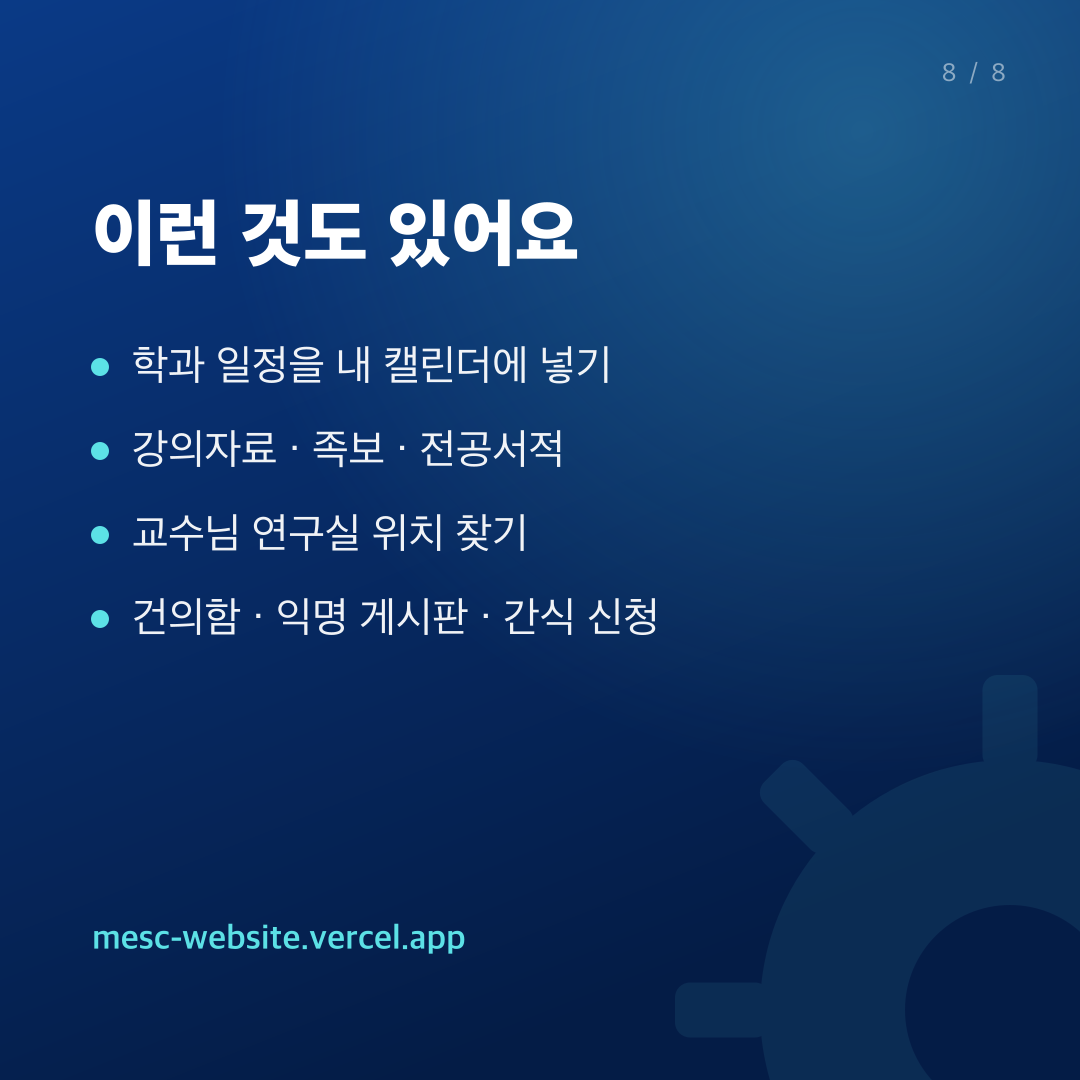
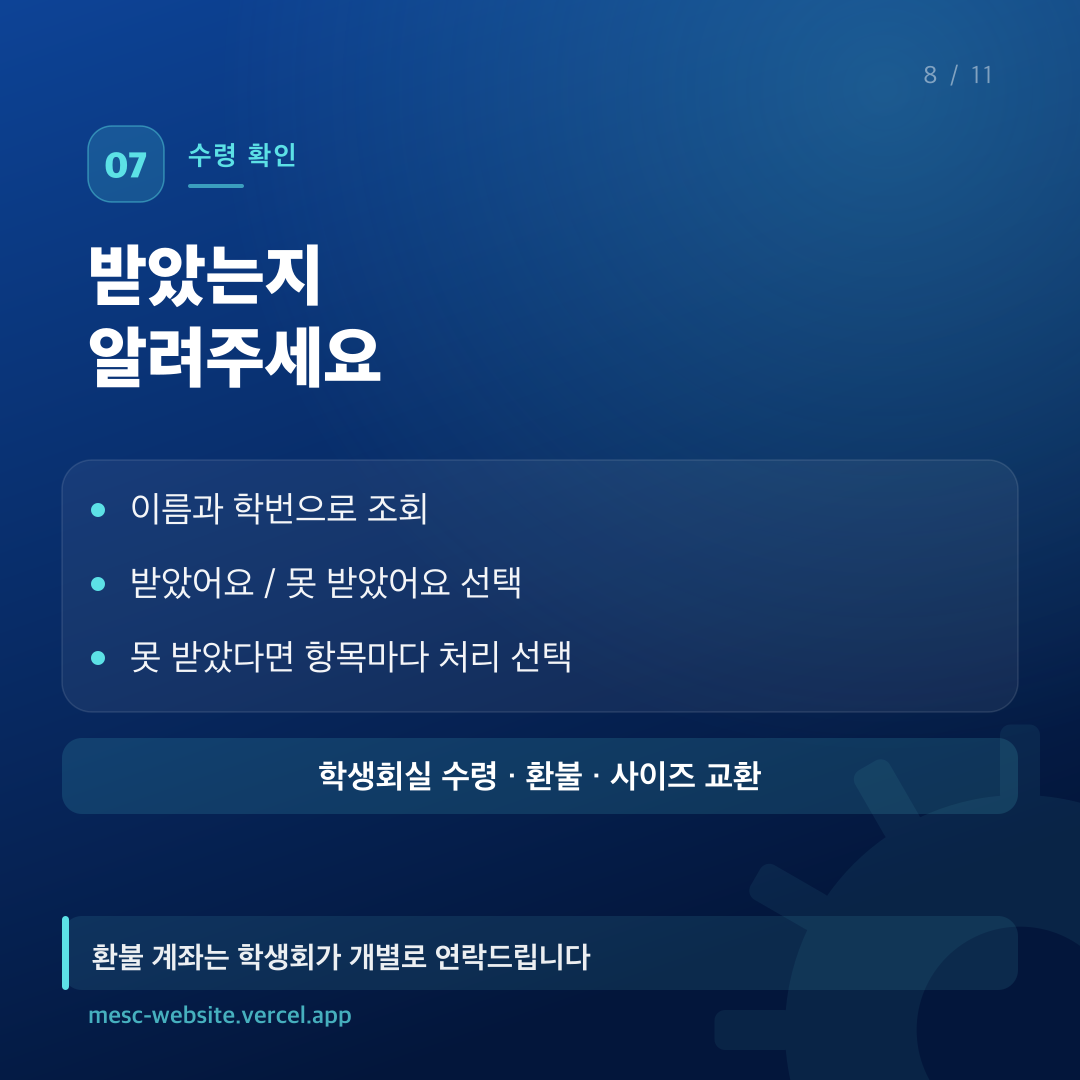
docs(cardnews): 카드뉴스 11장 재제작 + 프리뷰 배포 중단 (#20)
* docs(cardnews): 새 매뉴얼에 맞춰 11장으로 다시 제작

8장 요약본을 버리고 확장된 학생용 사용법을 따라 11장으로 재구성.
레이아웃을 부품화(번호 배지, 반투명 패널, 단계·점 목록, 강조 띠)하고
강조 띠 위치는 패널 높이에서 계산해 항목 수가 달라져도 겹치지 않게 함.

Claude-Session: https://claude.ai/code/session_011GQUemM1zTe4fHAKx2VFFn

* chore(vercel): 프리뷰 배포 중단 — 프로덕션 빌드만 수행

프리뷰 스코프에 DB 변수가 없어 실데이터를 볼 수 없었고 실패 알림만
쌓였다. Ignored Build Step 은 종료코드 0 이면 빌드를 건너뛴다
(프리뷰 0, 프로덕션 1). 되살리려면 이 한 줄만 지우면 된다.

Claude-Session: https://claude.ai/code/session_011GQUemM1zTe4fHAKx2VFFn

---------

diff --git a/AGENTS.md b/AGENTS.md
@@ -41,3 +41,5 @@ This version has breaking changes — APIs, conventions, and file structure may 
 - 2026-09-08 사용 매뉴얼 확장·화면 문구 정정 — 매뉴얼을 요약본에서 레퍼런스로 재작성(`docs/manual/`): 학생용 12장(메뉴 지도·공지·알림·이벤트 전 과정·과비·캘린더·강의·평면도·커뮤니티·개인정보·FAQ), 관리자 12장(대시보드 4카드 정의·캠페인 4탭·공지 첨부와 알림 3경로·행사/드라이브·모더레이션·팝업·학과 정보·사이트 설정·**되돌릴 수 없는 작업 목록**·개인정보·문제 해결·인수인계 체크리스트), `부록A-규칙과-한도.md`(업로드 한도·보유기간·레이트리밋·알림 조건·캐시 지연·주문 상태 기계·환경변수), `부록B-오류-문구-사전.md`(화면 문구 → 원인 → 조치), `README.md` 색인. 조사는 공개/관리자/정책 3개 에이전트 병렬. **코드 정정 3건**: `fill()` 이 `{name}` 을 치환하지 않아 재고 부족 안내가 학생 화면에 "{name} 옵션의 남은 수량이…" 로 그대로 노출되던 것, 행사 "재동기화" 안내가 삭제도 반영된다고 잘못 안내하던 것(실제로는 추가만), 마스코트·캠페인 이미지 안내의 "5MB 이하"(실제 `/api/upload` 한도는 4MB)
 - 2026-09-08 매뉴얼 PDF — `scripts/make-manual-pdf.mjs` 가 `docs/manual/*.md` 를 인쇄용으로 조판해 `docs/manual/pdf/` 에 찍는다(학생용 27쪽 / 관리자+부록A·B 45쪽). 의존성 없이 마크다운을 직접 HTML 로 바꾸고(표·인용·목록·이미지·코드) 헤드리스 크롬으로 출력. **크롬은 `--user-data-dir` 로 별도 프로필을 주지 않으면 사용자의 크롬과 충돌해 응답 없이 멈춘다**(이전 라운드 스크린샷 시도가 두 번 멈춘 원인). 쪽 번호가 있는 꼬리말은 CLI `--print-to-pdf` 로는 못 넣어 DevTools 프로토콜(`Page.printToPDF`, Node 내장 WebSocket)로 붙였고, **연결은 반드시 `/json/list` 의 `type:"page"` 대상으로** 해야 한다(브라우저 수준 소켓에는 Page 도메인이 없어 'Page.enable' wasn't found). 표지 h1 은 본문 h1 규칙(남색 글자·페이지 넘김)을 물려받아 남색 바탕에서 안 보였으므로 색·테두리·page-break 를 모두 재선언
 - 2026-09-08 프리뷰 배포 실패 — **프리뷰 스코프에 `DATABASE_URL`/`TURSO_AUTH_TOKEN` 이 없어** `libsql-migrate` 가 스킵되고 빈 SQLite 로 빌드가 진행돼, 서버 컴포넌트 프리렌더가 `SQLITE_ERROR: no such table: main.Building` 으로 던지면서 빌드 전체가 중단됐다(프로덕션은 변수가 있어 정상). 8/25 사고 때 프로덕션 스코프에만 재추가한 것이 원인. 조치: `lib/safe-query.ts` 로 **프리렌더 중 DB 조회 실패를 빈 값으로 흡수**(홈·학부 소개·학과 안내·과목 상세). 데이터가 없어도 빌드가 끝나고, ISR 이라 다음 갱신에 정상 데이터로 채워진다. 프로덕션 빌드 중 DB 가 잠깐 흔들려도 배포가 막히지 않는다. 재현·검증: `DATABASE_URL="file:/tmp/빈.db" npm run build` → 이전에는 중단, 지금은 80/80 통과. 프리뷰에서 실제 데이터를 보려면 프리뷰 스코프에 별도 DB 변수를 넣어야 한다(프로덕션 DB 를 그대로 쓰면 프리뷰 코드가 실데이터를 건드린다)
+- 2026-09-08 카드뉴스 v2 — 8장 → 11장으로 다시 만들고 확장된 학생용 매뉴얼과 내용을 맞췄다(무엇이 있나 / 알림 / 아이폰 설치 / 신청 / 관리 코드 / 조회 / 수령 확인 / 과비 / 그 밖에 / 마무리). 레이아웃을 부품화(번호 배지+분류 라벨 머리, 반투명 패널, 번호 단계·점 목록, 하단 강조 띠)하고 **강조 띠 위치를 패널 높이에서 계산**하도록 바꿨다 — 좌표를 손으로 적었더니 항목이 3개인 카드에서 목록과 겹쳤다
+- 2026-09-08 프리뷰 배포 중단 — `vercel.json` 의 `ignoreCommand: [ "$VERCEL_ENV" != "production" ]`. **Ignored Build Step 은 종료코드 0 이면 빌드를 건너뛴다** — 프리뷰는 0(건너뜀), 프로덕션은 1(빌드 진행). 프리뷰 스코프에 DB 변수가 없어 실데이터를 못 보는 상태였고 실패 알림만 쌓여서 껐다. 되살리려면 이 한 줄을 지우고, **프리뷰 스코프에 DB 변수를 따로 넣을 것**(프로덕션 DB 를 그대로 쓰면 프리뷰 코드가 실데이터를 건드린다). 대시보드 설정이 아니라 저장소에 두었으므로 되돌리기는 이 줄 삭제로 끝난다

diff --git a/docs/manual/cardnews/README.md b/docs/manual/cardnews/README.md
@@ -1,7 +1,21 @@
 # 카드뉴스 (인스타그램 1:1)
 
-`card-01.png` … `card-08.png` — 1080×1080. 학생용 사용법(`../학생용-사용법.md`)을 8장으로 요약한 것입니다.
+`card-01.png` … `card-11.png` — 1080×1080. [학생용 사용법](../학생용-사용법.md)을 11장으로 요약한 것입니다.
 번호 순서대로 캐러셀에 올리면 됩니다.
+
+| 장 | 내용 |
+|---|---|
+| 01 | 표지 |
+| 02 | 무엇이 있나 — 기능 다섯 가지 |
+| 03 | 공지 알림 켜기 (안드로이드·컴퓨터) |
+| 04 | 아이폰은 홈 화면에 추가부터 |
+| 05 | 단체복·행사 신청하는 법 |
+| 06 | 신청 직후 화면을 캡처해야 하는 이유 |
+| 07 | 내 신청 확인 — 조회 세 가지와 상태 흐름 |
+| 08 | 수령 확인 — 받았는지 알려주기 |
+| 09 | 과비 확인 |
+| 10 | 그 밖의 기능 |
+| 11 | 마무리 · 문의처 |
 
 ## 내용 고치기
 
@@ -11,4 +25,11 @@
 node scripts/make-cardnews.mjs
 ```
 
-줄바꿈은 자동으로 되지 않습니다. 배열에서 한 줄씩 직접 나눠야 하고, 본문은 한 줄에 20자 안쪽이 적당합니다.
+**매뉴얼을 고쳤으면 카드도 같이 맞춰 주세요.** 내용은 학생용 사용법을 따릅니다.
+
+### 두 가지 제약
+
+- **자동 줄바꿈이 없습니다.** 배열에서 한 줄씩 직접 나눠야 하고, 본문은 한 줄에 22자 안쪽이 적당합니다.
+- **이모지는 렌더되지 않습니다.** 문구에 넣지 마세요.
+
+목록·강조 띠·하단 문구는 위치를 자동으로 계산하므로, 항목 수를 늘리거나 줄여도 겹치지 않습니다.
